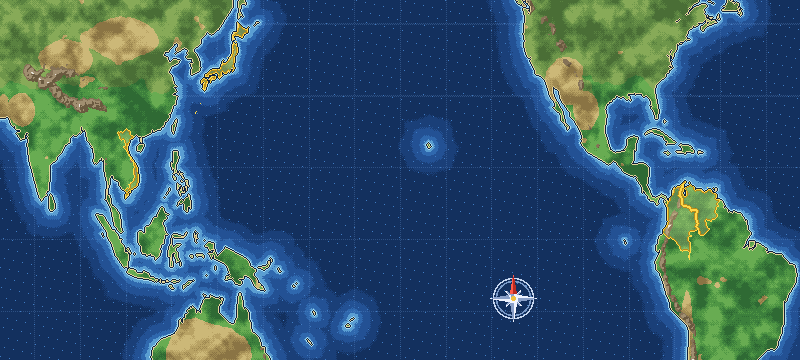
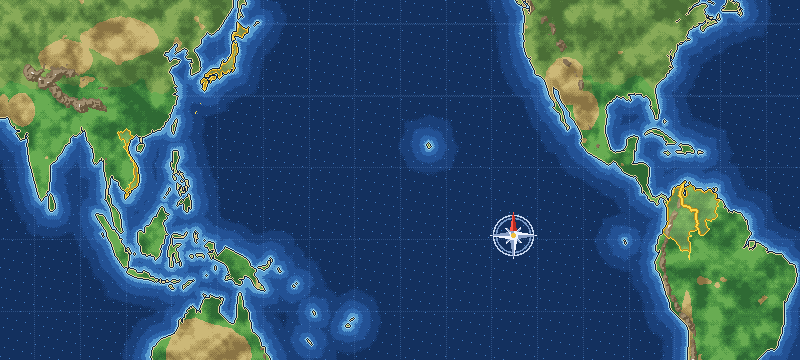
AJUSTES de PixelForja: presentación de los rivales y submódulo en main
- El submódulo apunta al main de pixel_forja (e69797f, con #50 a #54) y el kit se regeneró
- Bogotá y Maracaibo con la franja de presentación, cada una con sus huecos, y el nombre de cada rival en su placa
- El nombre que no cabe a 1,5 en la placa de 104 (DON HERNANDO) baja a 1
- prueba-intro2 revisa el orden de capas, los huecos y los nombres

Claude-Session: https://claude.ai/code/session_01XBTQH4USb3bcg9qAn5jJiP

Changed region(s): [[0.5938, 0.5806, 0.6875, 0.7333], [0.5938, 0.7639, 0.6875, 0.8861]]

diff --git a/src/scenes/Intro.ts b/src/scenes/Intro.ts
@@ -6,7 +6,7 @@ import { txt, typewrite, wait, panel, flash, speedLines } from '../core/ui';
 import { hayUi, pieza } from '../core/interfaz';
 import { Input } from '../core/input';
 import { efecto } from '../core/fx';
-import { kit } from '../core/kit';
+import { kit, nombreCorto } from '../core/kit';
 import { buildLogo, fireworks } from './logo';
 import { JET, PARADAS } from '../gfx/mapa';
 import { cargarAtletas, packsDe } from '../core/carga';
@@ -1168,21 +1168,32 @@ export class Intro extends Phaser.Scene {
   }
 
   /**
-   * Los rivales en su ciudad (lote INTRO), una toma corta de 1,5 s: el fondo, los cuatro retratos en silueta que
-   * después se revelan, y encima la capa animada (la lluvia de Bogotá). Maracaibo no trae huecos: van en los de Bogotá.
+   * Los rivales en su ciudad (lotes INTRO y AJUSTES), una toma corta de 1,5 s. Capas: la escena, la franja de
+   * presentación con un marco por hueco, los cuatro retratos en los `huecos` de la escena (a 1) en silueta que
+   * después se revelan con su nombre en la placa, y encima la capa animada (la lluvia de Bogotá).
    */
   private async rivales(alive: () => boolean, fondo: string, capa: string | null, equipo: string, titulo: string) {
-    const pb = pieza('intro_bogota') as unknown as { huecos?: [number, number, number, number][] } | undefined;
-    const pf = pieza(fondo) as unknown as { texto?: [number, number, number, number] } | undefined;
-    if (!hayUi(this, fondo) || !pb?.huecos) return;
+    type Escena = { huecos?: [number, number, number, number][]; nombres?: number; texto?: [number, number, number, number] };
+    const pf = pieza(fondo) as unknown as Escena | undefined;
+    const huecos = pf?.huecos ?? (pieza('intro_bogota') as unknown as Escena | undefined)?.huecos;
+    if (!hayUi(this, fondo) || !huecos) return;
     this.clear();
     const bg = this.add2(this.add.sprite(-80, 0, `ui_${fondo}`, 0).setOrigin(0));
     if (this.anims.exists(`ui_${fondo}`)) bg.play(`ui_${fondo}`);
+    if (hayUi(this, 'intro_presentacion')) this.add2(this.add.image(-80, 0, 'ui_intro_presentacion').setOrigin(0));
     const ids = Object.entries(kit().atletas).filter(([, a]) => (a as { equipo?: string }).equipo === equipo).map(([id]) => id).slice(0, 4);
     const caras = ids.map((id, i) => {
-      const [x, y, w, h] = pb.huecos![i];
+      const [x, y, w, h] = huecos[i];
       return this.add2(this.add.image(x - 80 + w / 2, y + h / 2, `retratos:${id}`, 'grande_enojo').setTintFill(0x14101e));
     });
+    // el nombre en su placa (104 de ancho): a 2 caben 8 letras; los más largos, a 1,5
+    const nombres = pf?.nombres !== undefined ? ids.map((id, i) => {
+      const n = nombreCorto(id);
+      const t = txt(this, huecos[i][0] + 48 - 80, pf.nombres!, n, 'fuente_ui', n.length > 8 ? 1.5 : 2).setTint(0xffe080).setVisible(false);
+      // DON HERNANDO a 1,5 mide 108: el que aun así no cabe, a 1
+      if (t.width > 104) t.setScale(1);
+      return this.add2(t);
+    }) : [];
     if (capa && hayUi(this, capa)) {
       const c = this.add2(this.add.sprite(-80, 0, `ui_${capa}`, 0).setOrigin(0));
       if (this.anims.exists(`ui_${capa}`)) c.play(`ui_${capa}`);
@@ -1192,8 +1203,9 @@ export class Intro extends Phaser.Scene {
     chip.blip(220, 0.25, 'saw', 0.12, 110);
     await wait(this, 650);
     if (!alive()) return;
-    // se revelan de golpe
+    // se revelan de golpe, con su nombre
     caras.forEach((c) => c.clearTint());
+    nombres.forEach((n) => n.setVisible(true));
     flash(this, 90);
     chip.boom(0.5);
     await wait(this, 850);

diff --git a/para_pixel_forja/ESTADO.md b/para_pixel_forja/ESTADO.md
@@ -40,13 +40,20 @@ Estados: `pendiente`, `en curso`, `entregado`, `aprobado`.
 | RAYO_PUNTA | El punto `impacto` en la punta de `javelin_rayo` | en el juego | [#47](https://github.com/Lothra2/pixel_forja/pull/47) |
 | H2_CORTO | trueno, furro, corneta_moto y los ambientes mercado, río y estadio | en el juego | [#48](https://github.com/Lothra2/pixel_forja/pull/48) |
 | G2 | El envoltorio: retratos a 96, medallas, banderas, podio, íconos, tarjetas, VS de 4 y pantallas | en el juego | [#49](https://github.com/Lothra2/pixel_forja/pull/49) |
-| VS2 | marco_vs_2, el VS de 1 contra 1 | en el juego; PR abierto | [#50](https://github.com/Lothra2/pixel_forja/pull/50) |
-| CINTA | cinta_16 y cinta_32, el cuarto puesto | en el juego; PR abierto | [#51](https://github.com/Lothra2/pixel_forja/pull/51) |
-| GIRA | mapa_gira, la ruta del avión, mapas de región y sellos | en el juego; PR abierto | [#52](https://github.com/Lothra2/pixel_forja/pull/52) |
-| INTRO | azotea con Kenji de espaldas, Bogotá, Maracaibo y el desayuno | en el juego; PR abierto | [#53](https://github.com/Lothra2/pixel_forja/pull/53) |
+| VS2 | marco_vs_2, el VS de 1 contra 1 | en el juego | [#50](https://github.com/Lothra2/pixel_forja/pull/50) |
+| CINTA | cinta_16 y cinta_32, el cuarto puesto | en el juego | [#51](https://github.com/Lothra2/pixel_forja/pull/51) |
+| GIRA | mapa_gira, la ruta del avión, mapas de región y sellos | en el juego | [#52](https://github.com/Lothra2/pixel_forja/pull/52) |
+| INTRO | azotea con Kenji de espaldas, Bogotá, Maracaibo y el desayuno | en el juego | [#53](https://github.com/Lothra2/pixel_forja/pull/53) |
+| AJUSTES | la rosa del mapa, la presentación de los rivales y Rick con parted2 | en el juego | [#54](https://github.com/Lothra2/pixel_forja/pull/54) |
 
 ## Lo último del lado del juego
-- **VS2, CINTA, GIRA e INTRO en el juego**, generados desde una unión local de los PR #50 a #53. **Los cuatro siguen abiertos y chocan entre sí:** salieron del mismo main (91f6d48) y cada uno suma su parte a las mismas listas (`UI_PARTS`, `PARTES_ENVOLTORIO`, el tipo `ui` de la configuración, el esquema, KIT_A_MEDIDA.md, INTERFAZ.md, el ejemplo de `kit.config.json` y los conteos de `custom.test.ts` y `ui_audio.test.ts`). Todos los choques son uniones: con los cuatro juntos la suite pasa 566 de 566. Forja tiene que unirlos en su main; el submódulo del juego queda en 91f6d48 hasta entonces.
+- **AJUSTES (#54) en el juego** y el submódulo en el main de PixelForja (e69797f, con #50 a #54). #54 estaba abierto: pasó la suite completa (567 de 567) sobre main y el juego lo unió. El artifact sigue en 500.
+  - La rosa del mapa en (513, 235): ya no choca con la barra del pasaporte. Nada que cambiar en el juego.
+  - Bogotá y Maracaibo, cada una con sus `huecos` (en y 132): la escena, `ui_intro_presentacion`, los retratos de bloques a 1 en silueta (`setTintFill(0x14101e)`) y después revelados, el nombre corto centrado en x = hueco + 48 - 80 y en y = `nombres` (252), y en Bogotá la lluvia encima.
+  - **Lo que no calzó:** la placa mide 104 y DON HERNANDO a 1,5 mide 108. El juego lo baja a 1 (cabe, pero se lee chiquito). ABUELA NERVA a 1,5 mide justo 104. Para que DON HERNANDO salga a 1,5 la placa tendría que medir 110 o más.
+  - Los retratos siguen siendo los de bloques del juego; no se usan los grande_* del kit.
+
+- **VS2, CINTA, GIRA e INTRO en el juego**, generados desde una unión local de los PR #50 a #53. **Los cuatro siguen abiertos y chocan entre sí:** salieron del mismo main (91f6d48) y cada uno suma su parte a las mismas listas (`UI_PARTS`, `PARTES_ENVOLTORIO`, el tipo `ui` de la configuración, el esquema, KIT_A_MEDIDA.md, INTERFAZ.md, el ejemplo de `kit.config.json` y los conteos de `custom.test.ts` y `ui_audio.test.ts`). Todos los choques son uniones: con los cuatro juntos la suite pasa 566 de 566. Forja los unió después en su main.
   - `kit.config.json` suma `ui.gira.paradas` (tokio, saigon, bogota, caracas) e `ui.intro.espaldas` (kenji). El artifact sigue en 500.
   - **VS de 1 contra 1:** el 1v1 y el judo usan `vs2()` con `ui_marco_vs_2` en x -80; cada retrato `grande_enojo` en su hueco menos 80, en (150, 150) y (490, 150), el de la derecha volteado; la prueba en `texto`, VS en `vs`, nombres en 246 y frases en 268. El 4v4 sigue con el de 4.
   - **Cinta:** `ui_cinta_32` en (170, y) para el cuarto de la tabla de resultados, sin círculo ni número.
